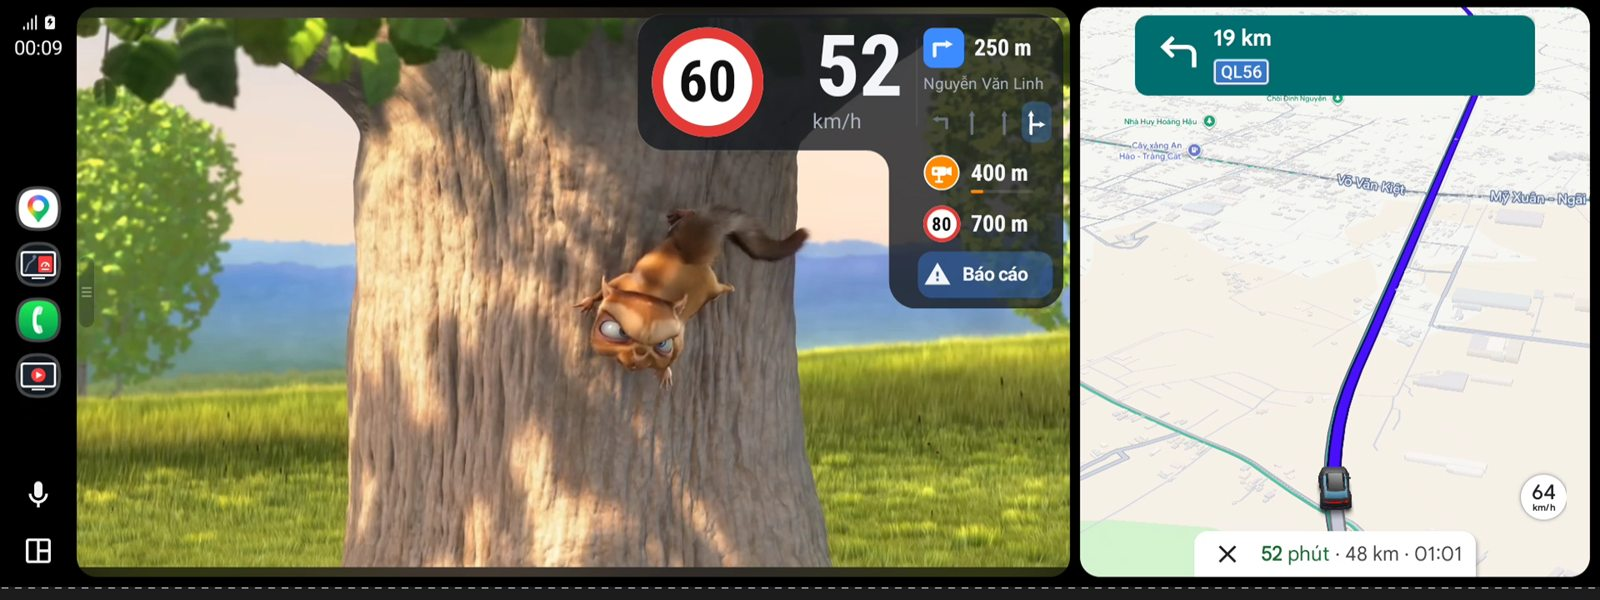
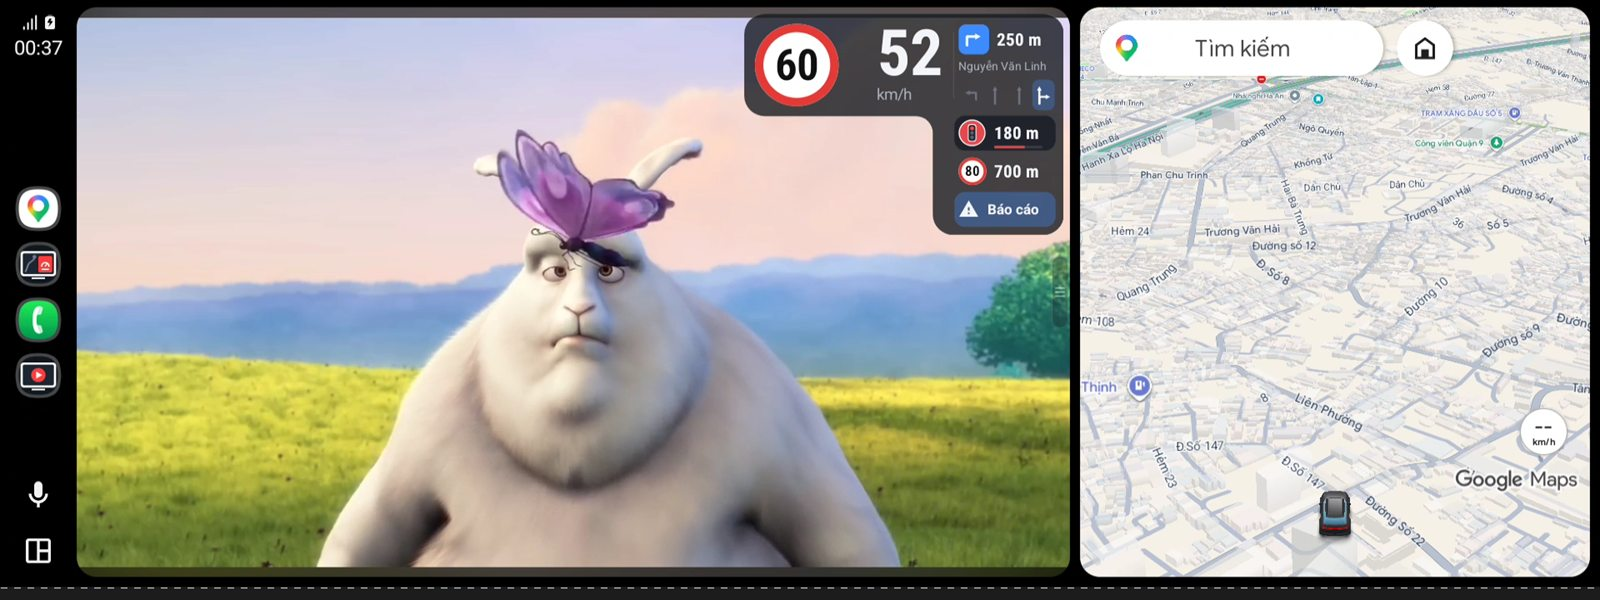
Ảnh mới: bong bóng đủ lối rẽ, làn đường, đèn giao thông, đổi tốc độ trên mọi cỡ màn hình
- Chụp lại mọi cỡ màn (800x480, 1280x720, 1920x1080, màn vuông, màn dài, màn dọc): bong bóng ngang (cỡ vừa, canh giữa), bong bóng dọc (cỡ nhỏ), bản đồ + thẻ DriveTV.
- Thêm tab Màn vuông, mỗi cỡ màn 3 ảnh.
- Trang Tính năng: bong bóng dọc, ngang và giải thích 4 loại cảnh báo.
- Mục Ảnh giới thiệu để chia sẻ: 4 ảnh quảng cáo tải về được; og.jpg mới.

diff --git a/index.html b/index.html
@@ -6,7 +6,7 @@
 <title>NTV DriveTV</title>
 <meta name="description" content="Xem YouTube trên màn hình Android Auto, góc màn hình có bong bóng báo giới hạn, tốc độ, chỗ rẽ, làn đường và camera lấy từ Waze Mod. Không cần root, dùng thử miễn phí.">
 <meta property="og:title" content="NTV DriveTV">
-<meta property="og:description" content="YouTube trên màn hình xe mà tốc độ, camera, chỗ rẽ vẫn hiện ngay đó. Không cần root.">
+<meta property="og:description" content="YouTube trên màn hình xe mà tốc độ, chỗ rẽ, làn đường, đèn giao thông, đổi tốc độ vẫn hiện ngay đó. Không cần root.">
 <meta property="og:image" content="img/og.jpg">
 <link rel="icon" href="img/logo.svg" type="image/svg+xml">
 <link rel="icon" href="img/favicon-32.png" sizes="32x32" type="image/png">
@@ -203,6 +203,15 @@
   .panel img { display: block; width: 100%; height: auto; background: #0B0F14; border-radius: 14px; padding: 6px; }
   .panel figcaption { font-weight: 700; display: flex; align-items: center; gap: 8px; }
   .panel figcaption::before { content: ""; width: 10px; height: 10px; border-radius: 50%; background: var(--yellow); border: 2px solid var(--line); }
+  .panel.three { grid-template-columns: repeat(3, minmax(0, 1fr)); }
+  .panel.three.wide { grid-template-columns: minmax(0, 1fr); }
+  .panel.three.tall { grid-template-columns: repeat(3, minmax(0, 260px)); justify-content: center; }
+  .alerts4 { list-style: none; margin: 0; padding: 0; display: grid; grid-template-columns: repeat(2, minmax(0, 1fr)); gap: 10px; }
+  .alerts4 li { background: var(--paper); border: 2px solid var(--line); border-radius: 14px; padding: 10px 14px; font-size: 0.92rem; color: var(--ink-2); }
+  .alerts4 b { display: block; color: var(--ink); font: 700 1rem/1.3 var(--head); }
+  .promo { display: grid; grid-template-columns: repeat(2, minmax(0, 1fr)); gap: 22px; align-items: start; }
+  .promo a { display: grid; gap: 10px; padding: 12px; text-decoration: none; color: var(--ink); font-weight: 700; }
+  .promo img { display: block; width: 100%; height: auto; border-radius: 14px; }
   .panel .note { grid-column: 1 / -1; color: var(--ink-2); padding-top: 4px; border-top: 2px dashed var(--soft-line); }
   .fineprint { font-size: 0.88rem; color: var(--ink-2); margin-top: 16px; }
 
@@ -290,6 +299,7 @@
     .cards { grid-template-columns: repeat(2, minmax(0, 1fr)); }
     .faq { grid-template-columns: minmax(0, 1fr); }
     .cta .icon { display: none; }
+    .panel.three:not(.tall):not(.wide) { grid-template-columns: repeat(2, minmax(0, 1fr)); }
   }
   @media (max-width: 640px) {
     .teaser { grid-template-columns: minmax(0, 1fr); }
@@ -301,7 +311,9 @@
     .compare .row > span:nth-child(2)::before { content: "DriveTV: "; font-weight: 700; }
     .compare .row > span:nth-child(3)::before { content: "CarCast: "; font-weight: 700; }
     .cards, .panel { grid-template-columns: minmax(0, 1fr); }
-    .panel.tall { grid-template-columns: repeat(2, minmax(0, 1fr)); }
+    .panel.tall, .panel.three.tall { grid-template-columns: repeat(3, minmax(0, 1fr)); }
+    .panel.three:not(.tall):not(.wide) { grid-template-columns: minmax(0, 1fr); }
+    .promo, .alerts4 { grid-template-columns: minmax(0, 1fr); }
     .box { box-shadow: 6px 6px 0 var(--lift); }
     .hero { padding-top: 22px; }
     section.block { padding-top: 64px; }
@@ -375,8 +387,8 @@
         <svg class="spark s2" viewBox="0 0 24 24" fill="currentColor" aria-hidden="true"><path d="M12 0c.6 6.4 5.6 11.4 12 12-6.4.6-11.4 5.6-12 12-.6-6.4-5.6-11.4-12-12C6.4 11.4 11.4 6.4 12 0Z"/></svg>
         <div class="hero-copy">
           <span class="tag">Cho xe có Android Auto</span>
-          <h1>Xem YouTube trên màn hình xe mà vẫn biết tốc độ, camera phía trước</h1>
-          <p class="lede">NTV DriveTV giúp bạn mở YouTube ngay trên màn hình Android Auto của xe. Ở góc màn hình luôn có một bong bóng nhỏ cho bạn biết <span class="mark">đoạn đường cho chạy tối đa bao nhiêu</span>, <span class="mark">xe đang chạy bao nhiêu</span>, <span class="mark">sắp rẽ ở đâu</span> và <span class="mark">phía trước có camera không</span>. Số liệu lấy từ Waze Mod trên điện thoại, nên Waze báo gì thì bong bóng hiện đúng như vậy.</p>
+          <h1>Xem YouTube trên màn hình xe mà vẫn biết tốc độ, lối rẽ, đèn phía trước</h1>
+          <p class="lede">NTV DriveTV giúp bạn mở YouTube ngay trên màn hình Android Auto của xe. Ở góc màn hình luôn có một bong bóng nhỏ cho bạn biết <span class="mark">đoạn đường cho chạy tối đa bao nhiêu</span>, <span class="mark">xe đang chạy bao nhiêu</span>, <span class="mark">sắp rẽ ở đâu, đi làn nào</span> và <span class="mark">phía trước có đèn giao thông, camera hay đổi tốc độ không</span>. Số liệu lấy từ Waze Mod trên điện thoại, nên Waze báo gì thì bong bóng hiện đúng như vậy.</p>
           <div class="actions">
             <a class="btn dark" href="#cach-mua">Dùng thử miễn phí <span data-trial>3</span> ngày <svg viewBox="0 0 24 24" fill="none" stroke="currentColor" stroke-width="2.5" stroke-linecap="round" stroke-linejoin="round" aria-hidden="true"><path d="M5 12h14M13 6l6 6-6 6"/></svg></a>
             <a class="btn light" href="#man-hinh">Xem trên màn hình giống xe bạn <svg viewBox="0 0 24 24" fill="none" stroke="currentColor" stroke-width="2.5" stroke-linecap="round" stroke-linejoin="round" aria-hidden="true"><path d="M12 5v14M6 13l6 6 6-6"/></svg></a>
@@ -393,10 +405,10 @@
           </div>
         </div>
         <div class="shot">
-          <img data-shot-img="doc" src="img/hero-man-dai.jpg" width="1600" height="600" alt="Màn hình xe dài đang chiếu phim hoạt hình toàn màn hình, góc phải là bong bóng dọc: biển 60, đang chạy 52 km/h, rẽ phải 250 m vào Nguyễn Văn Linh, làn phải được tô, camera 400 m, đổi lên 80 sau 700 m, nút Báo cáo. Bên phải là Google Maps.">
-          <img data-shot-img="ngang" src="img/mh-man-dai-video.jpg" width="1600" height="600" loading="lazy" alt="Màn hình xe dài chiếu phim hoạt hình, phía trên là bong bóng ngang: biển 60, 52 km/h, rẽ phải 250 m, làn đường, camera 400 m, đổi lên 80 sau 700 m." hidden>
+          <img data-shot-img="doc" src="img/hero-man-dai.jpg" width="1600" height="600" alt="Màn hình xe dài đang chiếu phim hoạt hình toàn màn hình, góc phải là bong bóng dọc: biển 60, đang chạy 52 km/h, rẽ phải 250 m vào Nguyễn Văn Linh, làn phải được tô, đèn giao thông 180 m, đổi lên 80 sau 700 m, nút Báo cáo. Bên phải là Google Maps.">
+          <img data-shot-img="ngang" src="img/mh-man-dai-video-ngang.jpg" width="1600" height="600" loading="lazy" alt="Màn hình xe dài chiếu phim hoạt hình, giữa mép trên là bong bóng ngang: biển 60, 52 km/h, rẽ phải 250 m, làn đường, đèn giao thông 180 m, đổi lên 80 sau 700 m, nút Báo cáo." hidden>
         </div>
-        <div class="legend"><span><i>60</i> đường cho chạy tối đa</span><span><i>52</i> xe đang chạy</span><span><i>↱ 250 m</i> chỗ rẽ sắp tới, kèm làn nên đi</span><span><i>📷 400 m</i> camera phía trước</span><span><i>80 · 700 m</i> sắp đổi tốc độ</span></div>
+        <div class="legend"><span><i>60</i> đường cho chạy tối đa</span><span><i>52</i> xe đang chạy</span><span><i>↱ 250 m</i> lối rẽ sắp tới</span><span><i>⇈ làn</i> làn nên đi được tô sáng</span><span><i>🚦 180 m</i> đèn giao thông phía trước</span><span><i>80 · 700 m</i> sắp đổi tốc độ</span></div>
       </div>
     </div>
   </section>
@@ -422,9 +434,9 @@
         </article>
         <article class="fcard c-orange">
           <span class="pill">Cảnh báo</span>
-          <h3>Camera, chỗ rẽ, làn đường</h3>
-          <p>Còn khoảng 500 m tới camera là có thanh đếm lùi để bạn kịp giảm tốc. Gần tới ngã rẽ thì hiện mũi tên, tên đường và làn nên đi. Phía trước sắp đổi tốc độ hay đang kẹt xe cũng được báo trước.</p>
-          <div class="art"><span class="chip l">400 m</span><span class="chip r">↱ 250 m</span><svg viewBox="0 0 48 48" aria-hidden="true"><path d="M24,0.5a23.5,23.5 0,1 1,0 47.0a23.5,23.5 0,1 1,0 -47.0z" fill="#FFFFFF"/><path d="M24,2.5a21.5,21.5 0,1 1,0 43.0a21.5,21.5 0,1 1,0 -43.0z" fill="#FF8A00"/><path d="M14,16h13a3,3 0,0 1,3,3v6a3,3 0,0 1,-3,3h-13a3,3 0,0 1,-3,-3v-6a3,3 0,0 1,3,-3z" fill="#FFFFFF"/><path d="M30,18.5L37,16V28L30,25.5z" fill="#FFFFFF"/><path d="M16.5,19.8a2.2,2.2 0,1 1,0 4.4a2.2,2.2 0,1 1,0 -4.4z" fill="#FF8A00"/><path d="M20.5,28V35" fill="none" stroke="#FFFFFF" stroke-width="3" stroke-linecap="round" stroke-linejoin="round"/><path d="M16.5,34.5h8a1.5,1.5 0,0 1,1.5,1.5v0a1.5,1.5 0,0 1,-1.5,1.5h-8a1.5,1.5 0,0 1,-1.5,-1.5v-0a1.5,1.5 0,0 1,1.5,-1.5z" fill="#FFFFFF"/></svg></div>
+          <h3>Lối rẽ, làn đường, đèn giao thông, đổi tốc độ</h3>
+          <p>Gần tới ngã rẽ thì hiện mũi tên, tên đường và làn nên đi. Còn khoảng 500 m tới đèn giao thông hay camera là có thanh đếm lùi để bạn kịp giảm tốc. Phía trước sắp đổi tốc độ hay đang kẹt xe cũng được báo trước.</p>
+          <div class="art"><span class="chip l">🚦 180 m</span><span class="chip r">↱ 250 m</span><svg viewBox="0 0 48 48" aria-hidden="true"><path d="M24,0.5a23.5,23.5 0,1 1,0 47.0a23.5,23.5 0,1 1,0 -47.0z" fill="#FFFFFF"/><path d="M24,2.5a21.5,21.5 0,1 1,0 43.0a21.5,21.5 0,1 1,0 -43.0z" fill="#FF8A00"/><path d="M14,16h13a3,3 0,0 1,3,3v6a3,3 0,0 1,-3,3h-13a3,3 0,0 1,-3,-3v-6a3,3 0,0 1,3,-3z" fill="#FFFFFF"/><path d="M30,18.5L37,16V28L30,25.5z" fill="#FFFFFF"/><path d="M16.5,19.8a2.2,2.2 0,1 1,0 4.4a2.2,2.2 0,1 1,0 -4.4z" fill="#FF8A00"/><path d="M20.5,28V35" fill="none" stroke="#FFFFFF" stroke-width="3" stroke-linecap="round" stroke-linejoin="round"/><path d="M16.5,34.5h8a1.5,1.5 0,0 1,1.5,1.5v0a1.5,1.5 0,0 1,-1.5,1.5h-8a1.5,1.5 0,0 1,-1.5,-1.5v-0a1.5,1.5 0,0 1,1.5,-1.5z" fill="#FFFFFF"/></svg></div>
         </article>
         <article class="fcard c-green">
           <span class="pill">Cạnh bản đồ</span>
@@ -461,19 +473,26 @@
 <div class="page" data-page="tinh-nang" id="tinh-nang" hidden>
   <section class="block gutter first">
     <div class="wrap">
-      <div class="head"><h2>Bong bóng tốc độ cho bạn biết những gì</h2><p>Bên trái là hai con số bạn cần nhất: đoạn đường cho chạy tối đa bao nhiêu và xe đang chạy bao nhiêu. Bên phải là những gì sắp tới, cái gần nhất nằm trên cùng: chỗ rẽ và làn nên đi, camera, chỗ đổi tốc độ, đoạn kẹt xe. Bong bóng có nằm đè lên video thì bạn vẫn chạm vào video như bình thường.</p></div>
+      <div class="head"><h2>Bong bóng tốc độ cho bạn biết những gì</h2><p>Bên trái là hai con số bạn cần nhất: đoạn đường cho chạy tối đa bao nhiêu và xe đang chạy bao nhiêu. Bên phải là những gì sắp tới, cái gần nhất nằm trên cùng: lối rẽ và làn nên đi, đèn giao thông, camera, chỗ đổi tốc độ, đoạn kẹt xe. Bong bóng có nằm đè lên video thì bạn vẫn chạm vào video như bình thường.</p></div>
       <div class="visual box solo">
-        <img src="img/hero-v.png" width="1206" height="874" loading="lazy" alt="Bong bóng dọc: biển 60, đang chạy 48 km/h; rẽ phải 250 m vào Võ Nguyên Giáp; bốn làn, làn phải được tô; camera 420 m; biển 60 sau 1,9 km; kẹt xe 3,1 km thêm 5 phút; nút Báo cáo.">
-        <img src="img/hero-h-over.png" width="2205" height="172" loading="lazy" alt="Bong bóng ngang lúc chạy quá tốc độ: khối tốc độ nền đỏ, 72 km/h trong khi giới hạn 60.">
-        <p class="note">Trên là bong bóng dọc lúc sắp tới ngã rẽ. Dưới là bong bóng ngang lúc lỡ chạy quá tốc độ, phần tốc độ chuyển sang đỏ.</p>
+        <img src="img/hero-v.png" width="794" height="655" loading="lazy" style="max-width:520px;justify-self:center" alt="Bong bóng dọc: biển 60, đang chạy 48 km/h; rẽ phải 250 m vào Võ Nguyên Giáp; bốn làn, làn phải được tô; đèn giao thông 180 m có thanh đếm lùi; lên 80 sau 700 m; camera 1,2 km; nút Báo cáo.">
+        <img src="img/hero-h.png" width="2041" height="172" loading="lazy" alt="Bong bóng ngang cùng lúc: biển 60, 48 km/h, rẽ phải 250 m, bốn làn, đèn giao thông 180 m, lên 80 sau 700 m, camera 1,2 km, nút Báo cáo.">
+        <img src="img/hero-h-over.png" width="2041" height="172" loading="lazy" alt="Bong bóng ngang lúc chạy quá tốc độ: khối tốc độ nền đỏ, 72 km/h trong khi giới hạn 60.">
+        <ul class="alerts4">
+          <li><b>↱ Lối rẽ sắp tới</b>Mũi tên, khoảng cách và tên đường sẽ rẽ vào.</li>
+          <li><b>⇈ Làn đường</b>Các làn ở nút giao, làn nên đi được tô sáng.</li>
+          <li><b>🚦 Đèn giao thông</b>Còn dưới 500 m thì có thanh đếm lùi màu đỏ.</li>
+          <li><b>80 Đổi tốc độ phía trước</b>Biển giới hạn mới và còn bao xa tới đó.</li>
+        </ul>
+        <p class="note">Trên là bong bóng dọc lúc sắp tới ngã rẽ. Giữa là bong bóng ngang cùng tình huống. Dưới là bong bóng ngang lúc lỡ chạy quá tốc độ, phần tốc độ chuyển sang đỏ.</p>
       </div>
     </div>
   </section>
 
   <section class="block gutter">
     <div class="wrap">
-      <div class="head"><h2>Đang chỉ đường bằng Google Maps hay Waze vẫn thấy tốc độ</h2><p>Lúc không xem video, bạn cứ để bản đồ chiếm màn hình. Thẻ DriveTV bên cạnh vẫn hiện biển giới hạn và tốc độ xe. Dòng trên cho biết còn bao xa tới chỗ rẽ và rẽ vào đường nào. Dòng dưới chỉ nhắc những gì đáng để ý như camera, đổi tốc độ, trạm thu phí. Video vẫn phát tiếng, bạn quay lại là thấy hình ngay.</p></div>
-      <div class="visual box solo wide"><div class="dark"><img src="img/mh-1280x720-ban-do.jpg" width="1280" height="720" loading="lazy" alt="Google Maps bên trái; thẻ DriveTV bên phải có biển 60 to, tốc độ 52 trong vòng tròn nhỏ, viên camera 400 m, dòng rẽ phải 250 m vào Nguyễn Văn Linh và dòng Camera 400 m."></div></div>
+      <div class="head"><h2>Đang chỉ đường bằng Google Maps hay Waze vẫn thấy tốc độ</h2><p>Lúc không xem video, bạn cứ để bản đồ chiếm màn hình. Thẻ DriveTV bên cạnh vẫn hiện biển giới hạn và tốc độ xe. Dòng trên cho biết còn bao xa tới chỗ rẽ và rẽ vào đường nào. Dòng dưới chỉ nhắc những gì đáng để ý như đèn giao thông, camera, đổi tốc độ, trạm thu phí. Video vẫn phát tiếng, bạn quay lại là thấy hình ngay.</p></div>
+      <div class="visual box solo wide"><div class="dark"><img src="img/mh-1280x720-ban-do.jpg" width="1280" height="720" loading="lazy" alt="Google Maps bên trái; thẻ DriveTV bên phải có biển 60 to, tốc độ 52 trong vòng tròn nhỏ, viên Đèn đỏ 180 m, dòng rẽ phải 250 m vào Nguyễn Văn Linh và dòng Đèn đỏ 180 m."></div></div>
     </div>
   </section>
 
@@ -512,41 +531,68 @@
     <div class="wrap">
       <div class="head-row">
         <h2>Xem trước trên màn hình giống xe bạn</h2>
-        <p>Bạn chọn cỡ màn hình gần giống xe mình để xem trước nhé. Mỗi cỡ có hai ảnh: lúc xem video toàn màn hình và lúc đang chỉ đường.</p>
+        <p>Bạn chọn cỡ màn hình gần giống xe mình để xem trước nhé. Mỗi cỡ có ba ảnh: xem video với bong bóng ngang, với bong bóng dọc, và lúc đang chỉ đường.</p>
       </div>
       <div class="tabs" role="tablist" aria-label="Loại màn hình">
         <button type="button" role="tab" aria-selected="true" data-tab="800x480">Màn nhỏ 7 inch<small>800 × 480</small></button>
         <button type="button" role="tab" aria-selected="false" data-tab="1280x720">Màn 8 – 9 inch<small>1280 × 720</small></button>
         <button type="button" role="tab" aria-selected="false" data-tab="1920x1080">Màn 10 inch trở lên<small>1920 × 1080</small></button>
+        <button type="button" role="tab" aria-selected="false" data-tab="man-vuong">Màn vuông<small>1440 × 1080</small></button>
         <button type="button" role="tab" aria-selected="false" data-tab="man-dai">Màn dài<small>1920 × 720</small></button>
         <button type="button" role="tab" aria-selected="false" data-tab="man-doc">Màn dọc<small>1080 × 1920</small></button>
       </div>
-      <div class="panel box" data-panel="800x480">
-        <figure><figcaption>Xem video</figcaption><img src="img/mh-800x480-video.jpg" width="800" height="480" loading="lazy" alt="Màn 800×480: video toàn màn hình, bong bóng ngang phía trên."></figure>
-        <figure><figcaption>Đang chỉ đường</figcaption><img src="img/mh-800x480-ban-do.jpg" width="800" height="480" loading="lazy" alt="Màn 800×480: Google Maps và thẻ DriveTV."></figure>
-        <p class="note">Màn nhỏ thì bong bóng thu gọn thành một dải mỏng ở trên, video vẫn chiếm gần trọn màn hình.</p>
+      <div class="panel box three" data-panel="800x480">
+        <figure><figcaption>Video · bong bóng ngang</figcaption><img src="img/mh-800x480-video-ngang.jpg" width="800" height="480" loading="lazy" alt="Màn nhỏ 7 inch 800 × 480: video toàn màn hình, bong bóng ngang ở giữa mép trên."></figure>
+        <figure><figcaption>Video · bong bóng dọc</figcaption><img src="img/mh-800x480-video-doc.jpg" width="800" height="480" loading="lazy" alt="Màn nhỏ 7 inch 800 × 480: video toàn màn hình, bong bóng dọc ở góc phải trên có lối rẽ, làn, đèn giao thông, đổi tốc độ."></figure>
+        <figure><figcaption>Đang chỉ đường</figcaption><img src="img/mh-800x480-ban-do.jpg" width="800" height="480" loading="lazy" alt="Màn nhỏ 7 inch 800 × 480: Google Maps và thẻ DriveTV."></figure>
+        <p class="note">Màn nhỏ thì cả hai kiểu bong bóng vẫn hiện đủ lối rẽ, làn, đèn giao thông và đổi tốc độ, video vẫn chiếm gần trọn màn hình.</p>
       </div>
-      <div class="panel box" data-panel="1280x720" hidden>
-        <figure><figcaption>Xem video</figcaption><img src="img/mh-1280x720-video.jpg" width="1280" height="720" loading="lazy" alt="Màn 1280×720: video bên trái có bong bóng ngang, Google Maps bên phải."></figure>
-        <figure><figcaption>Đang chỉ đường</figcaption><img src="img/mh-1280x720-ban-do.jpg" width="1280" height="720" loading="lazy" alt="Màn 1280×720: Google Maps và thẻ DriveTV."></figure>
-        <p class="note">Đây là cỡ màn hình phổ biến nhất. Video và bản đồ nằm cạnh nhau, bạn không phải chuyển qua lại.</p>
+      <div class="panel box three" data-panel="1280x720" hidden>
+        <figure><figcaption>Video · bong bóng ngang</figcaption><img src="img/mh-1280x720-video-ngang.jpg" width="1280" height="720" loading="lazy" alt="Màn 8 – 9 inch 1280 × 720: video toàn màn hình, bong bóng ngang ở giữa mép trên."></figure>
+        <figure><figcaption>Video · bong bóng dọc</figcaption><img src="img/mh-1280x720-video-doc.jpg" width="1280" height="720" loading="lazy" alt="Màn 8 – 9 inch 1280 × 720: video toàn màn hình, bong bóng dọc ở góc phải trên có lối rẽ, làn, đèn giao thông, đổi tốc độ."></figure>
+        <figure><figcaption>Đang chỉ đường</figcaption><img src="img/mh-1280x720-ban-do.jpg" width="1280" height="720" loading="lazy" alt="Màn 8 – 9 inch 1280 × 720: Google Maps và thẻ DriveTV."></figure>
+        <p class="note">Cỡ phổ biến nhất, video và bản đồ nằm cạnh nhau. Bong bóng dọc hiện đủ mọi cảnh báo. Bong bóng ngang cỡ vừa ưu tiên lối rẽ, làn và đèn giao thông, chỗ đổi tốc độ hiện khi tới gần hơn (hoặc chọn cỡ nhỏ để thấy cả).</p>
       </div>
-      <div class="panel box" data-panel="1920x1080" hidden>
-        <figure><figcaption>Xem video</figcaption><img src="img/mh-1920x1080-video.jpg" width="1280" height="707" loading="lazy" alt="Màn 1920×1080: video và bong bóng ngang, Google Maps bên phải."></figure>
-        <figure><figcaption>Đang chỉ đường</figcaption><img src="img/mh-1920x1080-ban-do.jpg" width="1280" height="707" loading="lazy" alt="Màn 1920×1080: Google Maps và thẻ DriveTV."></figure>
+      <div class="panel box three" data-panel="1920x1080" hidden>
+        <figure><figcaption>Video · bong bóng ngang</figcaption><img src="img/mh-1920x1080-video-ngang.jpg" width="1280" height="707" loading="lazy" alt="Màn 10 inch trở lên 1920 × 1080: video toàn màn hình, bong bóng ngang ở giữa mép trên."></figure>
+        <figure><figcaption>Video · bong bóng dọc</figcaption><img src="img/mh-1920x1080-video-doc.jpg" width="1280" height="707" loading="lazy" alt="Màn 10 inch trở lên 1920 × 1080: video toàn màn hình, bong bóng dọc ở góc phải trên có lối rẽ, làn, đèn giao thông, đổi tốc độ."></figure>
+        <figure><figcaption>Đang chỉ đường</figcaption><img src="img/mh-1920x1080-ban-do.jpg" width="1280" height="707" loading="lazy" alt="Màn 10 inch trở lên 1920 × 1080: Google Maps và thẻ DriveTV."></figure>
         <p class="note">Màn hình độ nét cao thì chữ và số trong bong bóng tự lớn theo, ngồi ghế lái nhìn vẫn rõ.</p>
       </div>
-      <div class="panel box wide" data-panel="man-dai" hidden>
-        <figure><figcaption>Xem video</figcaption><img src="img/mh-man-dai-video.jpg" width="1600" height="600" loading="lazy" alt="Màn dài 1920×720: video lớn với bong bóng ngang, Google Maps bên phải."></figure>
-        <figure><figcaption>Đang chỉ đường</figcaption><img src="img/mh-man-dai-ban-do.jpg" width="1600" height="600" loading="lazy" alt="Màn dài 1920×720: Google Maps và thẻ DriveTV có thêm nút Đánh dấu."></figure>
-        <p class="note">Màn hình dài thì video rộng rãi hơn, bong bóng ngang đủ chỗ hiện cả camera lẫn chỗ đổi tốc độ.</p>
+      <div class="panel box three" data-panel="man-vuong" hidden>
+        <figure><figcaption>Video · bong bóng ngang</figcaption><img src="img/mh-man-vuong-video-ngang.jpg" width="1080" height="796" loading="lazy" alt="Màn vuông 1440 × 1080: video toàn màn hình, bong bóng ngang ở giữa mép trên."></figure>
+        <figure><figcaption>Video · bong bóng dọc</figcaption><img src="img/mh-man-vuong-video-doc.jpg" width="1080" height="796" loading="lazy" alt="Màn vuông 1440 × 1080: video toàn màn hình, bong bóng dọc ở góc phải trên có lối rẽ, làn, đèn giao thông, đổi tốc độ."></figure>
+        <figure><figcaption>Đang chỉ đường</figcaption><img src="img/mh-man-vuong-ban-do.jpg" width="1080" height="796" loading="lazy" alt="Màn vuông 1440 × 1080: Google Maps và thẻ DriveTV."></figure>
+        <p class="note">Màn gần vuông thì video chiếm trọn chiều ngang, bong bóng ngang đủ chỗ hiện cả bốn loại cảnh báo.</p>
       </div>
-      <div class="panel box tall" data-panel="man-doc" hidden>
-        <figure><figcaption>Xem video</figcaption><img src="img/mh-man-doc-video.jpg" width="607" height="1061" loading="lazy" alt="Màn dọc: bản đồ phía trên, video với bong bóng ngang phía dưới."></figure>
-        <figure><figcaption>Đang chỉ đường</figcaption><img src="img/mh-man-doc-ban-do.jpg" width="607" height="1061" loading="lazy" alt="Màn dọc: Google Maps phía trên, thẻ DriveTV nhỏ phía dưới."></figure>
+      <div class="panel box three wide" data-panel="man-dai" hidden>
+        <figure><figcaption>Video · bong bóng ngang</figcaption><img src="img/mh-man-dai-video-ngang.jpg" width="1600" height="600" loading="lazy" alt="Màn dài 1920 × 720: video toàn màn hình, bong bóng ngang ở giữa mép trên."></figure>
+        <figure><figcaption>Video · bong bóng dọc</figcaption><img src="img/mh-man-dai-video-doc.jpg" width="1600" height="600" loading="lazy" alt="Màn dài 1920 × 720: video toàn màn hình, bong bóng dọc ở góc phải trên có lối rẽ, làn, đèn giao thông, đổi tốc độ."></figure>
+        <figure><figcaption>Đang chỉ đường</figcaption><img src="img/mh-man-dai-ban-do.jpg" width="1600" height="600" loading="lazy" alt="Màn dài 1920 × 720: Google Maps và thẻ DriveTV."></figure>
+        <p class="note">Màn hình dài thì video rộng rãi, bong bóng ngang đủ chỗ hiện lối rẽ, làn, đèn giao thông lẫn chỗ đổi tốc độ.</p>
+      </div>
+      <div class="panel box three tall" data-panel="man-doc" hidden>
+        <figure><figcaption>Video · bong bóng ngang</figcaption><img src="img/mh-man-doc-video-ngang.jpg" width="607" height="1061" loading="lazy" alt="Màn dọc 1080 × 1920: video toàn màn hình, bong bóng ngang ở giữa mép trên."></figure>
+        <figure><figcaption>Video · bong bóng dọc</figcaption><img src="img/mh-man-doc-video-doc.jpg" width="607" height="1061" loading="lazy" alt="Màn dọc 1080 × 1920: video toàn màn hình, bong bóng dọc ở góc phải trên có lối rẽ, làn, đèn giao thông, đổi tốc độ."></figure>
+        <figure><figcaption>Đang chỉ đường</figcaption><img src="img/mh-man-doc-ban-do.jpg" width="607" height="1061" loading="lazy" alt="Màn dọc 1080 × 1920: Google Maps và thẻ DriveTV."></figure>
         <p class="note">Màn hình dọc thì bản đồ ở trên, video ở dưới. Thẻ DriveTV nhỏ hơn nên bạn xem chủ yếu qua hai dòng chữ.</p>
       </div>
       <p class="fineprint">Ảnh chụp trên bộ giả lập màn hình xe của Google, số liệu tốc độ là cảnh mẫu. Trên xe thật, cách Android Auto chia màn hình có thể khác một chút tuỳ hãng xe.</p>
+    </div>
+  </section>
+
+  <section class="block gutter" id="anh-gioi-thieu">
+    <div class="wrap">
+      <div class="head-row">
+        <h2>Ảnh giới thiệu để chia sẻ</h2>
+        <p>Muốn giới thiệu app cho bạn bè hay nhóm xe? Bấm vào ảnh để tải về, đăng Facebook, Zalo đều vừa khổ.</p>
+      </div>
+      <div class="promo">
+        <a class="box" href="img/qc-canh-bao.jpg" download><img src="img/qc-canh-bao.jpg" width="1200" height="630" loading="lazy" alt="Ảnh giới thiệu: Biết trước mọi thứ phía trước. Lối rẽ sắp tới, làn đường, đèn giao thông, đổi tốc độ, cạnh bong bóng dọc của app."><span>Bốn cảnh báo · 1200 × 630</span></a>
+        <a class="box" href="img/qc-ngang-doc.jpg" download><img src="img/qc-ngang-doc.jpg" width="1600" height="900" loading="lazy" alt="Ảnh giới thiệu: Bong bóng dọc hay ngang, tuỳ bạn. Hai ảnh chụp màn hình xe."><span>Dọc hay ngang · 1600 × 900</span></a>
+        <a class="box" href="img/qc-vuong.jpg" download><img src="img/qc-vuong.jpg" width="1080" height="1080" loading="lazy" alt="Ảnh giới thiệu vuông: Xem YouTube, vẫn thấy tốc độ."><span>Ảnh vuông · 1080 × 1080</span></a>
+        <a class="box" href="img/qc-moi-man-hinh.jpg" download><img src="img/qc-moi-man-hinh.jpg" width="1080" height="1350" loading="lazy" alt="Ảnh giới thiệu dọc: Vừa mọi màn hình xe, năm cỡ màn hình."><span>Mọi màn hình · 1080 × 1350</span></a>
+      </div>
     </div>
   </section>
 
